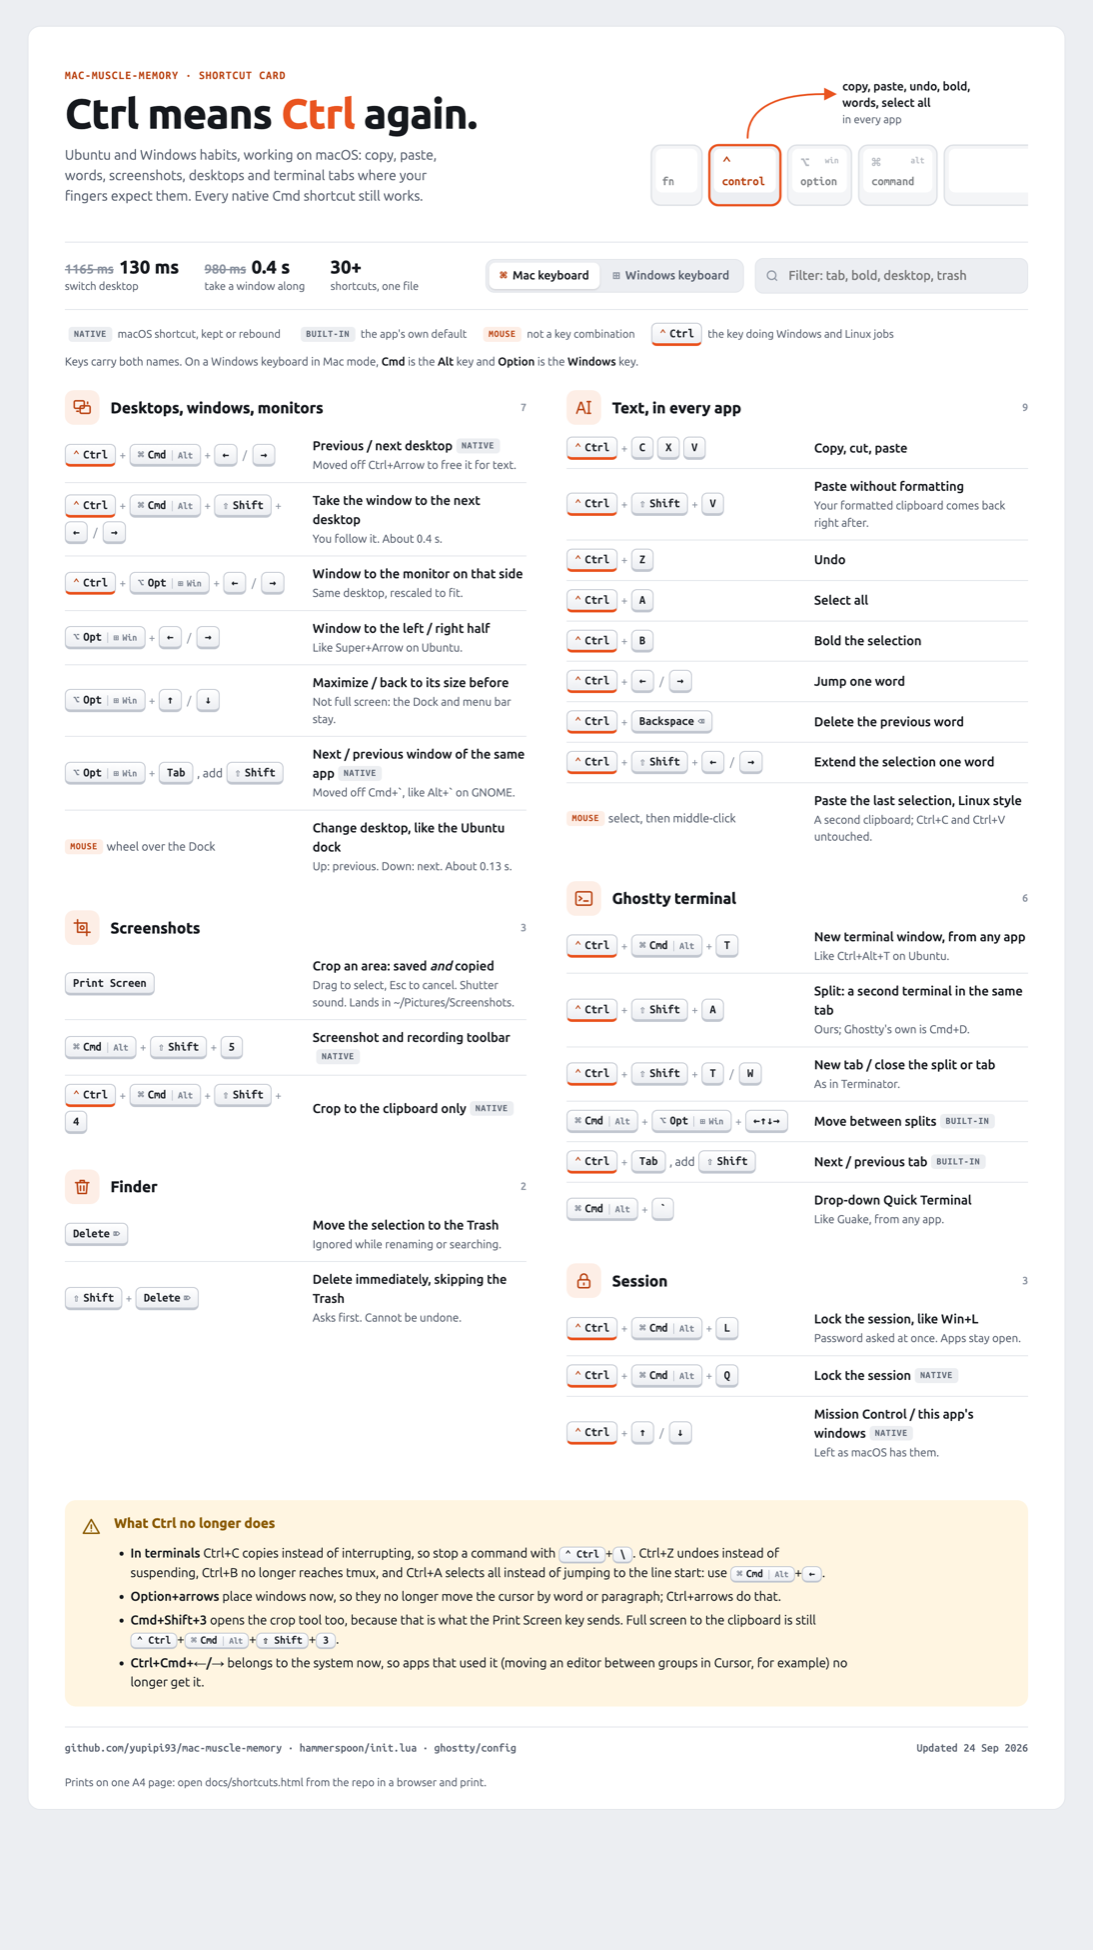
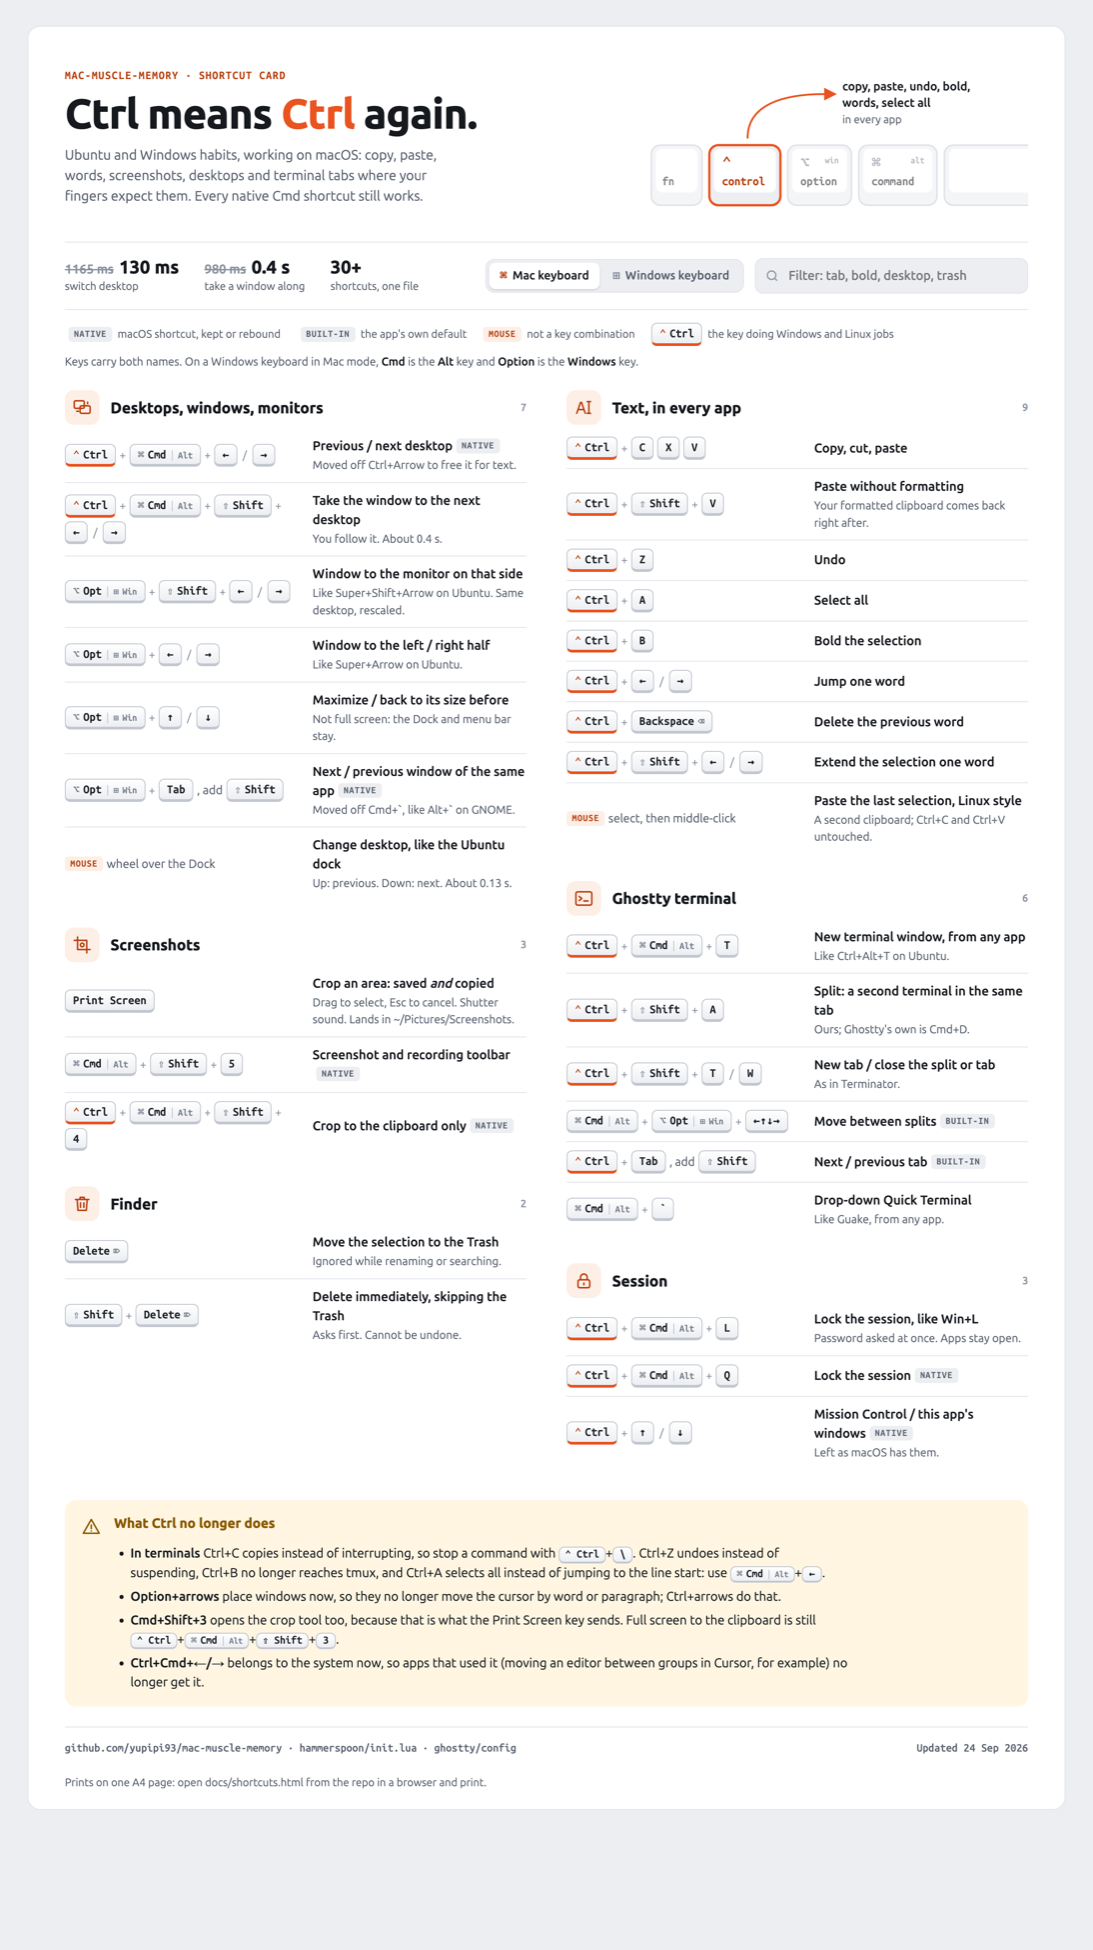
feat: move a window to the next monitor with Option+Shift+Arrow
Exactly Ubuntu's Super+Shift+Arrow, Option being the Windows key on a Windows keyboard.
Replaces Ctrl+Option+Arrow. Handled in the source-aware tap with window placement, so the
Option+Shift+Arrow that Ctrl+Shift+Arrow posts to select a word still reaches the app.
Verified with real presses. Card, README screenshot and docs updated.

diff --git a/docs/shortcuts.html b/docs/shortcuts.html
@@ -442,8 +442,8 @@
             <div class="what">Take the window to the next desktop<span class="note">You follow it. About 0.4 s.</span></div>
           </div>
           <div class="row" data-k="monitor screen display move">
-            <div class="keys"><kbd class="ctrl"><span class="g">⌃</span>Ctrl</kbd><i class="p">+</i><kbd class="dual"><span class="lm"><span class="g">⌥</span>Opt</span><span class="lw"><span class="g">⊞</span>Win</span></kbd><i class="p">+</i><kbd>←</kbd><i class="o">/</i><kbd>→</kbd></div>
-            <div class="what">Window to the monitor on that side<span class="note">Same desktop, rescaled to fit.</span></div>
+            <div class="keys"><kbd class="dual"><span class="lm"><span class="g">⌥</span>Opt</span><span class="lw"><span class="g">⊞</span>Win</span></kbd><i class="p">+</i><kbd><span class="g">⇧</span>Shift</kbd><i class="p">+</i><kbd>←</kbd><i class="o">/</i><kbd>→</kbd></div>
+            <div class="what">Window to the monitor on that side<span class="note">Like Super+Shift+Arrow on Ubuntu. Same desktop, rescaled.</span></div>
           </div>
           <div class="row" data-k="tile snap half left right window win super">
             <div class="keys"><kbd class="dual"><span class="lm"><span class="g">⌥</span>Opt</span><span class="lw"><span class="g">⊞</span>Win</span></kbd><i class="p">+</i><kbd>←</kbd><i class="o">/</i><kbd>→</kbd></div>

diff --git a/docs/settings.md b/docs/settings.md
@@ -48,7 +48,7 @@ Provides:
 - **Ctrl+Cmd+Shift+Left / Right** (Ctrl+Shift+Left / Right until 2026-09-24) move the focused
   window to the adjacent desktop and
   follow it.
-- **Ctrl+Option+Left / Ctrl+Option+Right** move the focused window to the adjacent monitor.
+- **Option+Shift+Left / Right** (Win+Shift on a Windows keyboard) move the focused window to the adjacent monitor.
 
 Tunables at the top of the file:
 
@@ -115,7 +115,10 @@ keyboard and `defaults` knows nothing about it, so record every remap in `person
 
 ## Moving a window between monitors
 
-**Ctrl+Option+Left / Ctrl+Option+Right.** On a Windows keyboard in Mac mode, Option is the
+**Option+Shift+Left / Option+Shift+Right**, like Super+Shift+Arrow on Ubuntu (Ctrl+Option+Arrow
+until 2026-09-24). Handled by the same source-aware event tap as window placement, so the
+Option+Shift+Arrow that Ctrl+Shift+Arrow posts to select a word still reaches the app. On a
+Windows keyboard in Mac mode, Option is the
 Windows key, not Alt; Hammerspoon calls the modifier `alt`. Nothing to do with Spaces: this is plain geometry, so
 `hs.window:moveToScreen` works and none of the broken APIs apply. It is the one thing on this
 machine that needed no workaround.

diff --git a/README.md b/README.md
@@ -43,7 +43,7 @@ the way so nobody has to rediscover it.
 | Mouse wheel over the Dock | previous / next desktop, like the Ubuntu dock | nothing |
 | <kbd>Ctrl</kbd> <kbd>Cmd</kbd> <kbd>←</kbd> <kbd>→</kbd> | switch desktop, about 0.13 s | Ctrl+Arrow, about 1.2 s |
 | <kbd>Ctrl</kbd> <kbd>Cmd</kbd> <kbd>Shift</kbd> <kbd>←</kbd> <kbd>→</kbd> | take the window to the next desktop | drag it to the screen edge and wait |
-| <kbd>Ctrl</kbd> <kbd>Option</kbd> <kbd>←</kbd> <kbd>→</kbd> | move the window to the next monitor | drag it across |
+| <kbd>Option</kbd> <kbd>Shift</kbd> <kbd>←</kbd> <kbd>→</kbd> | move the window to the next monitor, like Super+Shift+Arrow on Ubuntu | drag it across |
 | <kbd>Option</kbd> <kbd>←</kbd> <kbd>→</kbd> <kbd>↑</kbd> <kbd>↓</kbd> | window to the left or right half, maximize, back to its size, like Super+Arrow on Ubuntu | nothing built in |
 | <kbd>Option</kbd> <kbd>Tab</kbd>, add <kbd>Shift</kbd> to go back | next window of the same app, like Alt+` on GNOME | Cmd+` |
 | <kbd>Ctrl</kbd> <kbd>Cmd</kbd> <kbd>L</kbd> | lock the session, like Win+L | Ctrl+Cmd+Q |

diff --git a/CHANGELOG.md b/CHANGELOG.md
@@ -88,6 +88,16 @@ have moved, one canvas per display, tunable via `HINT_DURATION` and `HINT_ALPHA`
 draw it, its speed is ours to choose, unlike the native animation. Measured cost: none, the
 switch still medians 130 ms.
 
+## 2026-09-24, move to another monitor with Win+Shift+Arrow
+
+- Moving the window to the adjacent monitor is now **Option+Shift+Left / Right** (Win+Shift on a
+  Windows keyboard), exactly Ubuntu's Super+Shift+Arrow, instead of Ctrl+Option+Arrow.
+- Ctrl+Shift+Arrow was asked for first, but it already selects by word; the owner chose the
+  Ubuntu combination instead.
+- Lives in the source-aware tap with window placement, so the Option+Shift+Arrow that
+  Ctrl+Shift+Arrow posts still selects a word. Verified with real presses: the window went to
+  the built-in display and back, and Ctrl+Shift+Left selected `tres`.
+
 ## 2026-09-24, place windows with the Windows key, Ubuntu style
 
 - **Option+Left / Right** put the focused window on the left or right half of its screen,

diff --git a/docs/tools.md b/docs/tools.md
@@ -22,7 +22,7 @@ repo file and reloading Hammerspoon is the whole workflow.
 What it provides, each explained in `settings.md`:
 
 - Scroll over the Dock to change desktop.
-- Ctrl+Cmd+Shift+Arrow to take a window to the next desktop, Ctrl+Option+Arrow to the next monitor.
+- Ctrl+Cmd+Shift+Arrow to take a window to the next desktop, Option+Shift+Arrow (Win+Shift) to the next monitor.
 - Ctrl+C / X / V / Z / A, Ctrl+Shift+V, Ctrl+Arrow and Ctrl+Shift+Arrow in every app.
 - Print Screen crops, saves and copies. Delete and Shift+Delete in Finder.
 - Select text and middle-click to paste it, from a second clipboard, as on Linux.
